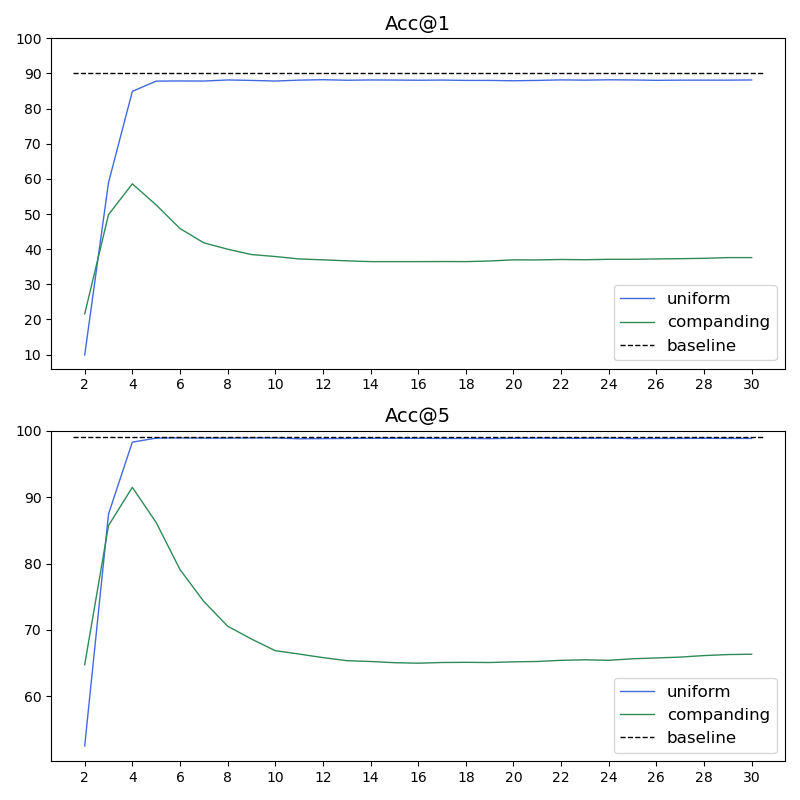
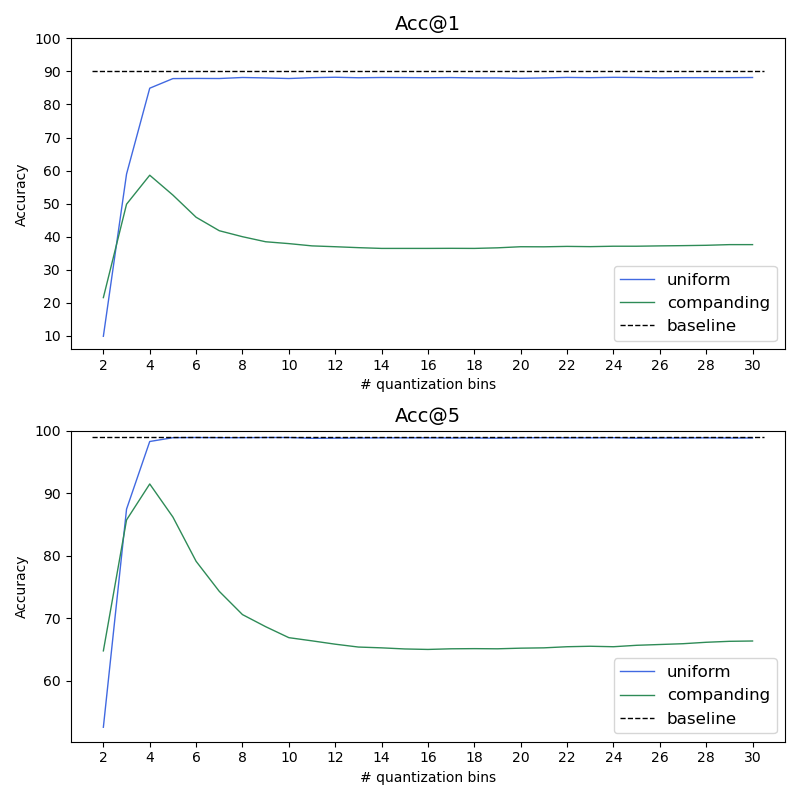
Added more results

diff --git a/results.py b/results.py
@@ -184,6 +184,9 @@ if __name__ == "__main__":
 
     ax[0].legend(loc=4, fontsize=12)
 
+    ax[0].set_xlabel("# quantization bins")
+    ax[0].set_ylabel("Accuracy")
+
     ax[0].set_ylim(top=100)
     ax[0].set_title("Acc@1", fontsize=14)
 
@@ -197,6 +200,9 @@ if __name__ == "__main__":
                   label='baseline')
 
     ax[1].legend(loc=4, fontsize=12)
+
+    ax[1].set_xlabel("# quantization bins")
+    ax[1].set_ylabel("Accuracy")
 
     ax[1].set_ylim(top=100)
     ax[1].set_title("Acc@5", fontsize=14)
@@ -220,6 +226,9 @@ if __name__ == "__main__":
 
     ax[0].legend(loc=4, fontsize=12)
 
+    ax[0].set_xlabel("# quantization bins")
+    ax[0].set_ylabel("Accuracy")
+
     ax[0].set_ylim(top=100)
     ax[0].set_title("Acc@1", fontsize=14)
 
@@ -233,6 +242,9 @@ if __name__ == "__main__":
                   label='baseline')
 
     ax[1].legend(loc=4, fontsize=12)
+
+    ax[1].set_xlabel("# quantization bins")
+    ax[1].set_ylabel("Accuracy")
 
     ax[1].set_ylim(top=100)
     ax[1].set_title("Acc@5", fontsize=14)
@@ -256,6 +268,9 @@ if __name__ == "__main__":
 
     ax[0].legend(loc=4, fontsize=12)
 
+    ax[0].set_xlabel("# quantization bins")
+    ax[0].set_ylabel("Accuracy")
+
     ax[0].set_ylim(top=100)
     ax[0].set_title("Acc@1", fontsize=14)
 
@@ -269,6 +284,9 @@ if __name__ == "__main__":
                   label='baseline')
 
     ax[1].legend(loc=4, fontsize=12)
+
+    ax[1].set_xlabel("# quantization bins")
+    ax[1].set_ylabel("Accuracy")
 
     ax[1].set_ylim(top=100)
     ax[1].set_title("Acc@5", fontsize=14)
@@ -291,6 +309,9 @@ if __name__ == "__main__":
 
     ax[0].legend(loc=4, fontsize=12)
 
+    ax[0].set_xlabel("# quantization bins")
+    ax[0].set_ylabel("Accuracy")
+
     ax[0].set_ylim(top=100)
     ax[0].set_title("Acc@1", fontsize=14)
 
@@ -304,6 +325,9 @@ if __name__ == "__main__":
                   label='baseline')
 
     ax[1].legend(loc=4, fontsize=12)
+
+    ax[1].set_xlabel("# quantization bins")
+    ax[1].set_ylabel("Accuracy")
 
     ax[1].set_ylim(top=100)
     ax[1].set_title("Acc@5", fontsize=14)
@@ -327,6 +351,9 @@ if __name__ == "__main__":
 
     ax[0].legend(loc=4, fontsize=12)
 
+    ax[0].set_xlabel("# quantization bins")
+    ax[0].set_ylabel("Accuracy")
+
     ax[0].set_ylim(top=100)
     ax[0].set_title("Acc@1", fontsize=14)
 
@@ -340,6 +367,9 @@ if __name__ == "__main__":
                   label='baseline')
 
     ax[1].legend(loc=4, fontsize=12)
+
+    ax[1].set_xlabel("# quantization bins")
+    ax[1].set_ylabel("Accuracy")
 
     ax[1].set_ylim(top=100)
     ax[1].set_title("Acc@5", fontsize=14)
@@ -362,6 +392,9 @@ if __name__ == "__main__":
 
     ax[0].legend(loc=4, fontsize=12)
 
+    ax[0].set_xlabel("# quantization bins")
+    ax[0].set_ylabel("Accuracy")
+
     ax[0].set_ylim(top=100)
     ax[0].set_title("Acc@1", fontsize=14)
 
@@ -375,6 +408,9 @@ if __name__ == "__main__":
 
     ax[1].legend(loc=4, fontsize=12)
 
+    ax[1].set_xlabel("# quantization bins")
+    ax[1].set_ylabel("Accuracy")
+
     ax[1].set_ylim(top=100)
     ax[1].set_title("Acc@5", fontsize=14)
 
@@ -382,11 +418,51 @@ if __name__ == "__main__":
     plt.savefig("results/graphs/companding_compare")
     plt.show()
 
+
+    _, ax = plt.subplots(2, 1, figsize=(8, 8))
+
+    ax[0].set_xticks(np.arange(min(_QBINS), max(_QBINS) + 1, 2))
+    ax[0].set_yticks(np.arange(0, 101, 10))
+
+    ax[0].plot(_QBINS, a1s_s1_nonoise_imgnette, color='royalblue', linewidth='1', label='w/o noise')
+    ax[0].plot(_QBINS, a1s_s1_noise_imgnette, color='seagreen', linewidth='1', label='w/ noise')
+    ax[0].axhline(y=_BASELINE_ACC1_IMAGENETTE, xmin=0.03, xmax=0.97, color='k', linestyle='--', linewidth='1',
+                  label='baseline')
+
+    ax[0].legend(loc=4, fontsize=12)
+
+    ax[0].set_xlabel("# quantization bins")
+    ax[0].set_ylabel("Accuracy")
+
+    ax[0].set_ylim(top=100)
+    ax[0].set_title("Acc@1", fontsize=14)
+
+    ax[1].set_xticks(np.arange(min(_QBINS), max(_QBINS) + 1, 2))
+    ax[1].set_yticks(np.arange(0, 101, 10))
+
+    ax[1].plot(_QBINS, a5s_s1_nonoise_imgnette, color='royalblue', linewidth='1', label='w/o noise')
+    ax[1].plot(_QBINS, a5s_s1_noise_imgnette, color='seagreen', linewidth='1', label='w/ noise')
+    ax[1].axhline(y=_BASELINE_ACC5_IMAGENETTE, xmin=0.03, xmax=0.97, color='k', linestyle='--', linewidth='1',
+                  label='baseline')
+
+    ax[1].legend(loc=4, fontsize=12)
+
+    ax[1].set_xlabel("# quantization bins")
+    ax[1].set_ylabel("Accuracy")
+
+    ax[1].set_ylim(top=100)
+    ax[1].set_title("Acc@5", fontsize=14)
+
+    plt.tight_layout()
+    plt.savefig("results/graphs/noise_vs_nonoise_imgnette")
+    plt.show()
+
+
     # FLOPS
 
     original_stdout = sys.stdout  # Save a reference to the original standard output
 
-    with open('results/FLOPS_count.txt', 'w') as f:
+    with open('results/FLOPs_count.txt', 'w') as f:
         sys.stdout = f  # Change the standard output to the file we created.
         with torch.cuda.device(0):
             net = models.resnet101()

diff --git a/pipeline.py b/pipeline.py
@@ -2,6 +2,7 @@ import os
 import torch
 import argparse
 import torchvision
+import time
 
 from companding import Compander
 from quantization import Quantizer
@@ -111,6 +112,7 @@ if __name__ == "__main__":
     qnet.eval()
     qnet.to(device)
 
+    batch_time = AverageMeter('Time', ':6.3f')
     losses = AverageMeter('Loss', ':.4e', Summary.AVERAGE)
     top1 = AverageMeter('Acc@1', ':6.2f', Summary.AVERAGE)
     top5 = AverageMeter('Acc@5', ':6.2f', Summary.AVERAGE)
@@ -118,11 +120,12 @@ if __name__ == "__main__":
     cratio = AverageMeter('CR', ':6.2f', Summary.AVERAGE)
     progress = ProgressMeter(
         len(val_loader),
-        [top1, top5, bitppx, cratio],
+        [batch_time, top1, top5, bitppx, cratio],
         prefix="Val: [-]")
 
 
     show_flag = args.show
+    end = time.time()
 
     for i, (inputs, labels) in enumerate(val_loader):
         inputs = inputs.to(device)
@@ -136,7 +139,7 @@ if __name__ == "__main__":
 
             outputs = qnet.analysis(inputs)
             # Encode with arithmetic codin
-            #coder.encode(outputs)
+            coder.encode(outputs)
 
             # show before and after image
             if show_flag:
@@ -147,11 +150,11 @@ if __name__ == "__main__":
                     show_flag = False
 
             # measure bpp and cr
-            #_bpp = bpp(bitsize(coder.outputfile), res) / inputs.size(0)
-            #cr = CR(_bpp)
+            _bpp = bpp(bitsize(coder.outputfile), res) / inputs.size(0)
+            cr = CR(_bpp)
 
             # Decode compressed file
-            #outputs = coder.decode()
+            outputs = coder.decode()
             # Process decoded tensor with second half of ResNet
             outputs = qnet.synthesis(outputs)
 
@@ -160,10 +163,12 @@ if __name__ == "__main__":
 
             top1.update(acc1[0], inputs.size(0))
             top5.update(acc5[0], inputs.size(0))
-            #bitppx.update(_bpp, inputs.size(0))
-            #cratio.update(cr, inputs.size(0))
+            bitppx.update(_bpp, inputs.size(0))
+            cratio.update(cr, inputs.size(0))
 
             # measure elapsed time
+            batch_time.update(time.time() - end)
+            end = time.time()
 
             if i % args.print_freq == 0:
                 progress.display(i + 1)

diff --git a/results/README.md b/results/README.md
@@ -1,0 +1,101 @@
+## Accuracy
+
+### Baseline
+| Dataset      |  Acc@1   |  Acc@5   |
+|--------------|:--------:|:--------:|
+| *CIFAR100*   |  78.820  |  94.560  |
+| *Imagenette* |  90.242  |  99.083  |
+
+<br>
+
+### Comparison of different splits
+> **_NOTE:_** Split@N means that the split was made after the N-th residual block.
+
+<br>
+
+**Dataset**: CIFAR100<br>
+**Model**: QuantResNet101 trained *WITHOUT* noise
+
+![cif100_split_wo_noise](../results/graphs/cif100_wo_noise.png)
+
+<br>
+
+**Dataset**: CIFAR100<br>
+**Model**: QuantResNet101 trained *WITH* noise
+
+![cif100_split_w_noise](../results/graphs/cif100_w_noise.png)
+
+<br>
+
+**Dataset**: Imagenette<br>
+**Model**: QuantResNet101 trained *WITHOUT* noise
+
+![imgnette_split_wo_noise](../results/graphs/imgnette_wo_noise.png)
+
+<br>
+
+**Dataset**: Imagenette<br>
+**Model**: QuantResNet101 trained *WITH* noise
+
+![imgnette_split_w_noise](../results/graphs/imgnette_w_noise.png)
+
+<br>
+
+### *NOISE* vs *NO NOISE* training on Imagenette
+
+![noise_vs_nonoise](../results/graphs/noise_vs_nonoise_imgnette.png)
+
+<br>
+
+### *Uniform* vs *Non-uniform* quantization
+
+![companding](../results/graphs/companding_compare.png)
+
+<br>
+
+### Comparison of training regime
+
+When training a model with noise to approximate quantization error, one would expect that you need to train 
+different models for each split *i.e.* if we split the model after the first residual block (split@1), we would train
+a model that injects noise after the first residual block, and if we split the model after the second residual block
+(split@2) we would train a model that injects noise after the second residual block. However it would seem that it
+does not matter where we inject the noise during training as long as it is within the same layer of residual blocks 
+(ResNet101 has a layer distribution of [3, 4, 23, 3]).
+
+![companding](../results/graphs/training_regime_compare.png)
+
+The blue and green line represent models that were trained with noise injected after the first residual block.
+The red line represent a model that was trained with noise injected after the second residual block. As you can see
+There are no significant differences between the green and red line as one would expect.
+
+## Computational complexity
+
+**GMACS** ... Giga Multiply–accumulate operations **per second**<br>
+**GFLOPS** ... Giga Floating point operations **per second**<br>
+**GMACs** ... Giga Multiply–accumulate operations<br>
+**GFLOPs** ... Giga Floating point operations<br>
+
+
+<sub><i>GMACs ~ GFLOPs * 0.5</i></sub>
+
+| Device                  | GFLOPS | GMACS |
+|-------------------------|:------:|:-----:|
+| *Raspberry Pi-4B*       |  9.69  | 4.85  |
+| *Raspberry Pi Zero 2 W* |  5.10  | 2.55  |
+| *NVIDIA A100*           | 19 500 | 9 750 |
+
+| CNN                   | GFLOPs |  GMACs  |
+|-----------------------|:------:|:-------:|
+| *ResNet101*           |  15.7  |  7.85   |
+| *QuantResNet (Edge)*  |  0.75  |  0.375  |
+| *QuantResNet (Cloud)* | 14.98  |  7.49   |
+
+
+### Compression
+
+### Anonimization
+
+|         Original image         |           Feature maps            | Quantized Feature maps                           |
+|:------------------------------:|:---------------------------------:|--------------------------------------------------|
+| ![](../results/anon/image.png) | ![](../results/anon/featmaps.png) | ![](../results/anon/split1/qbins4/qfeatmaps.png) |
+
